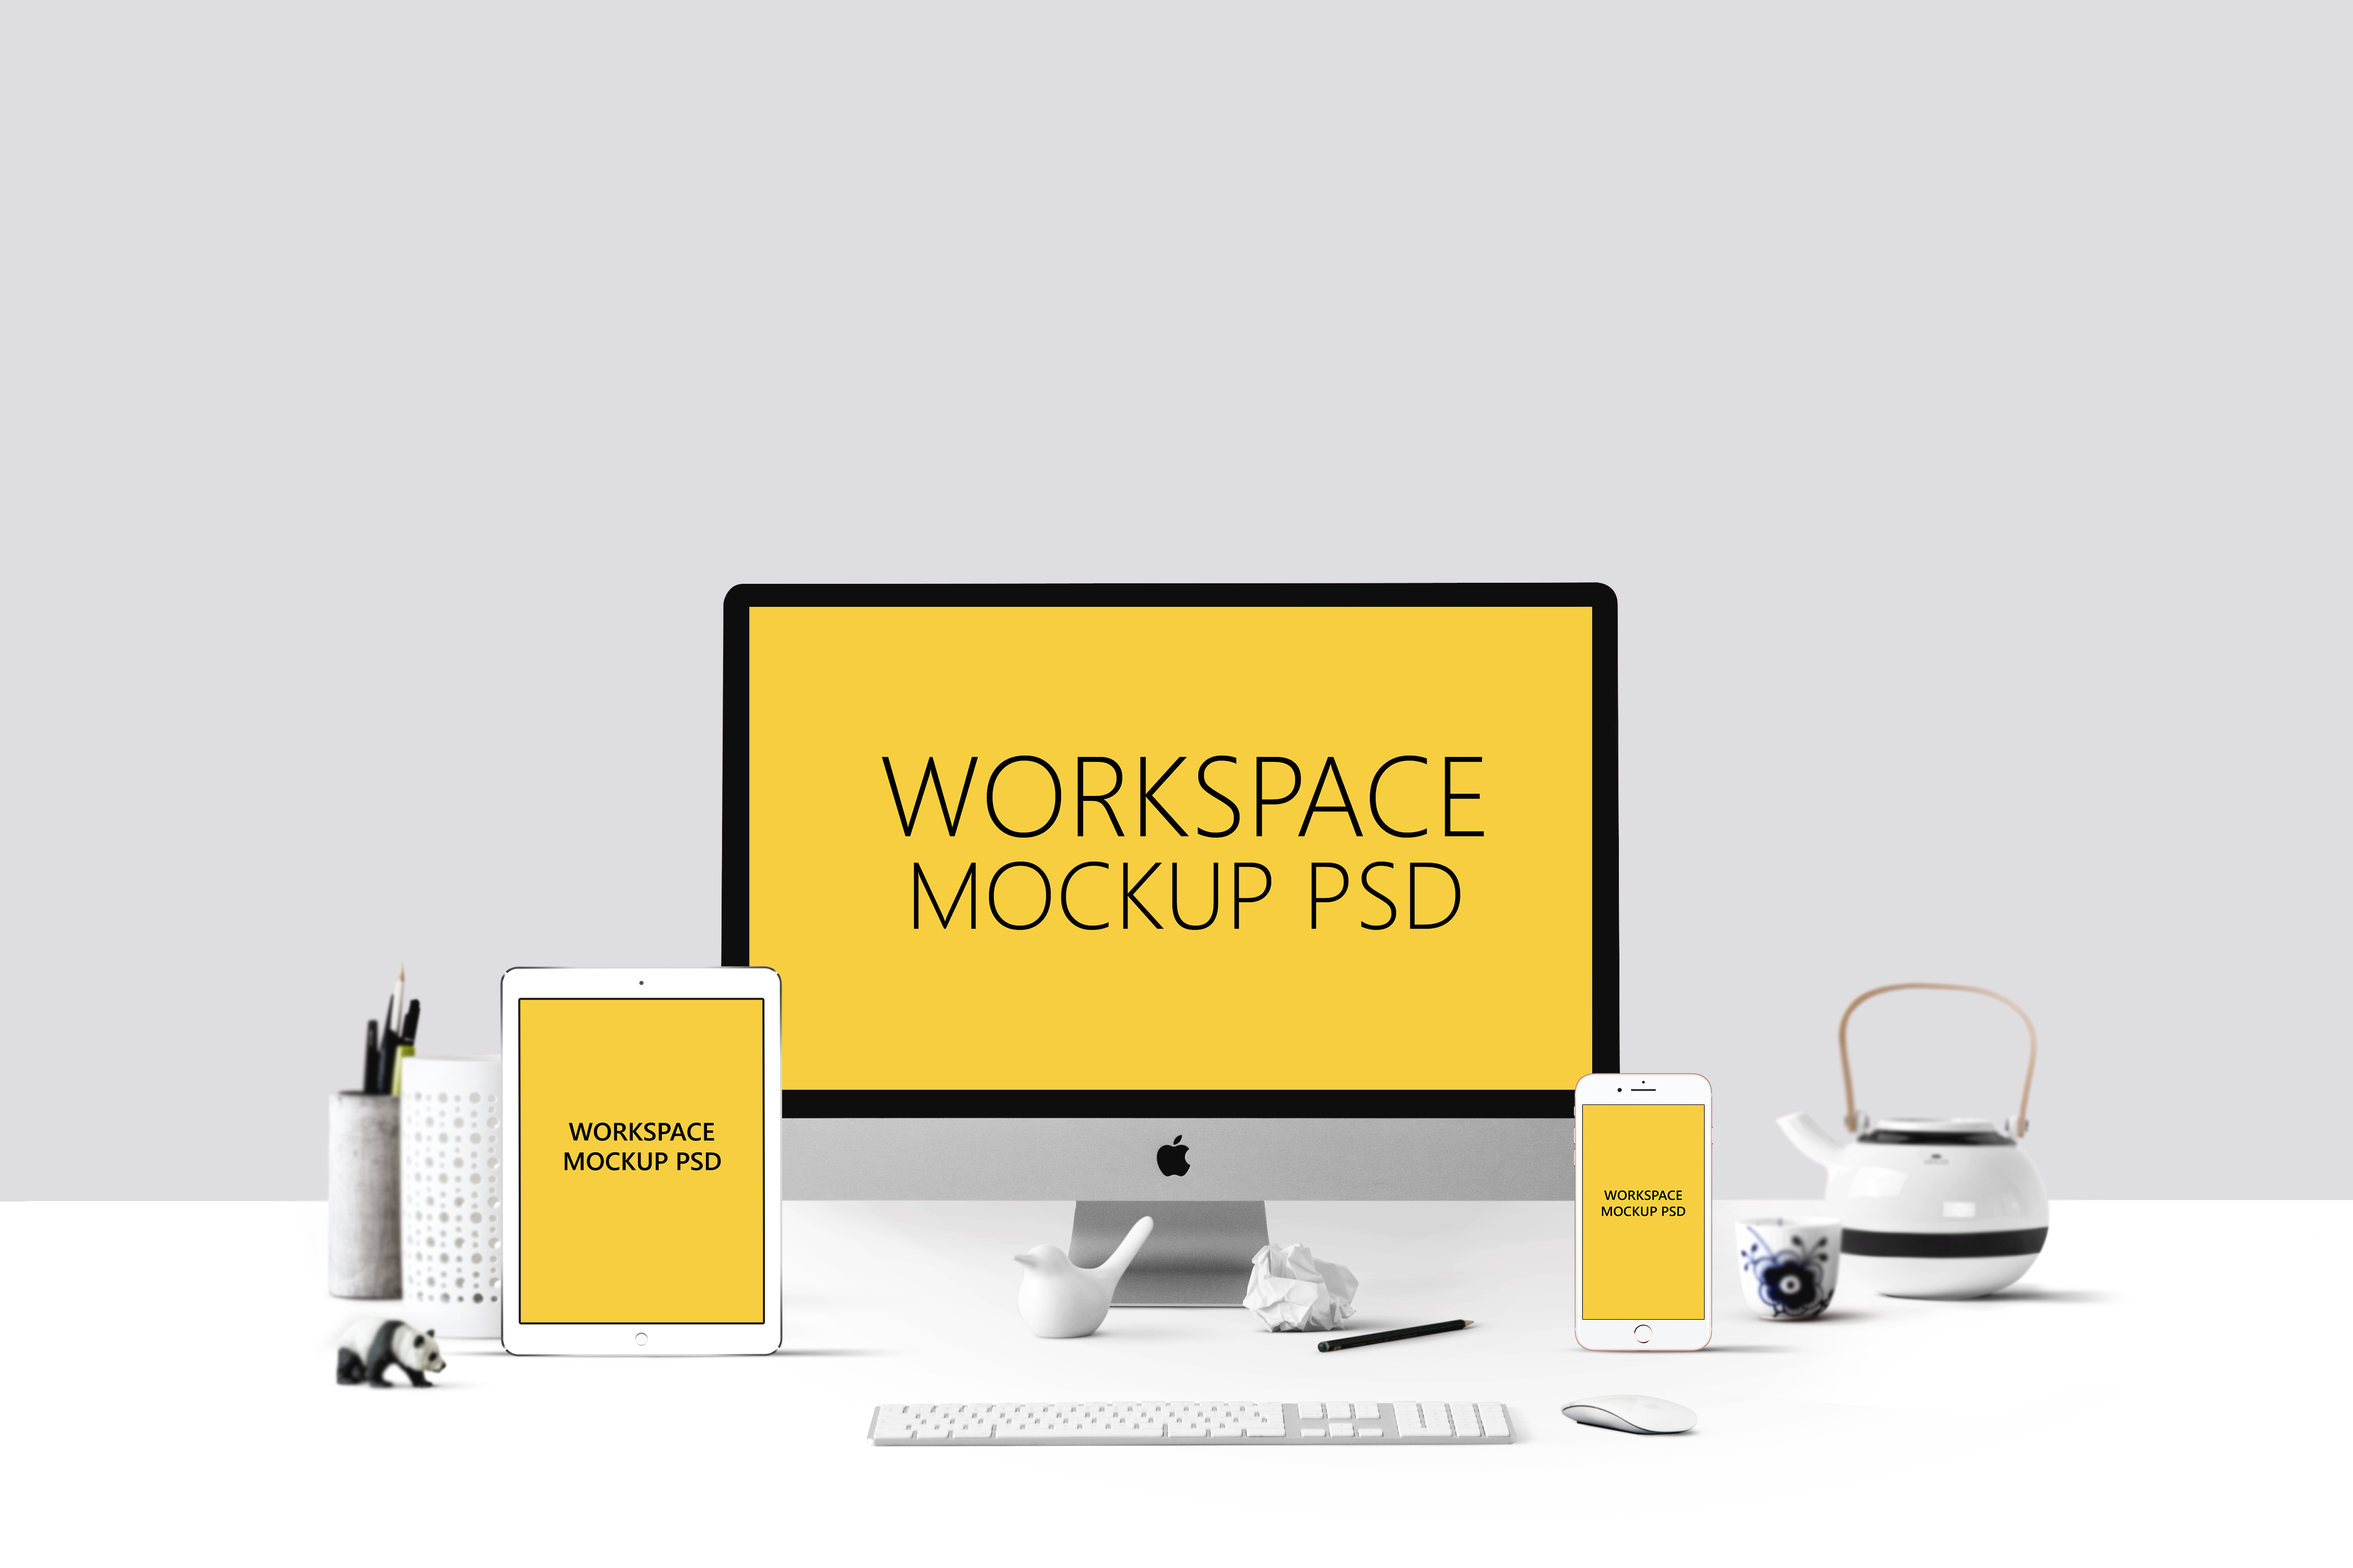
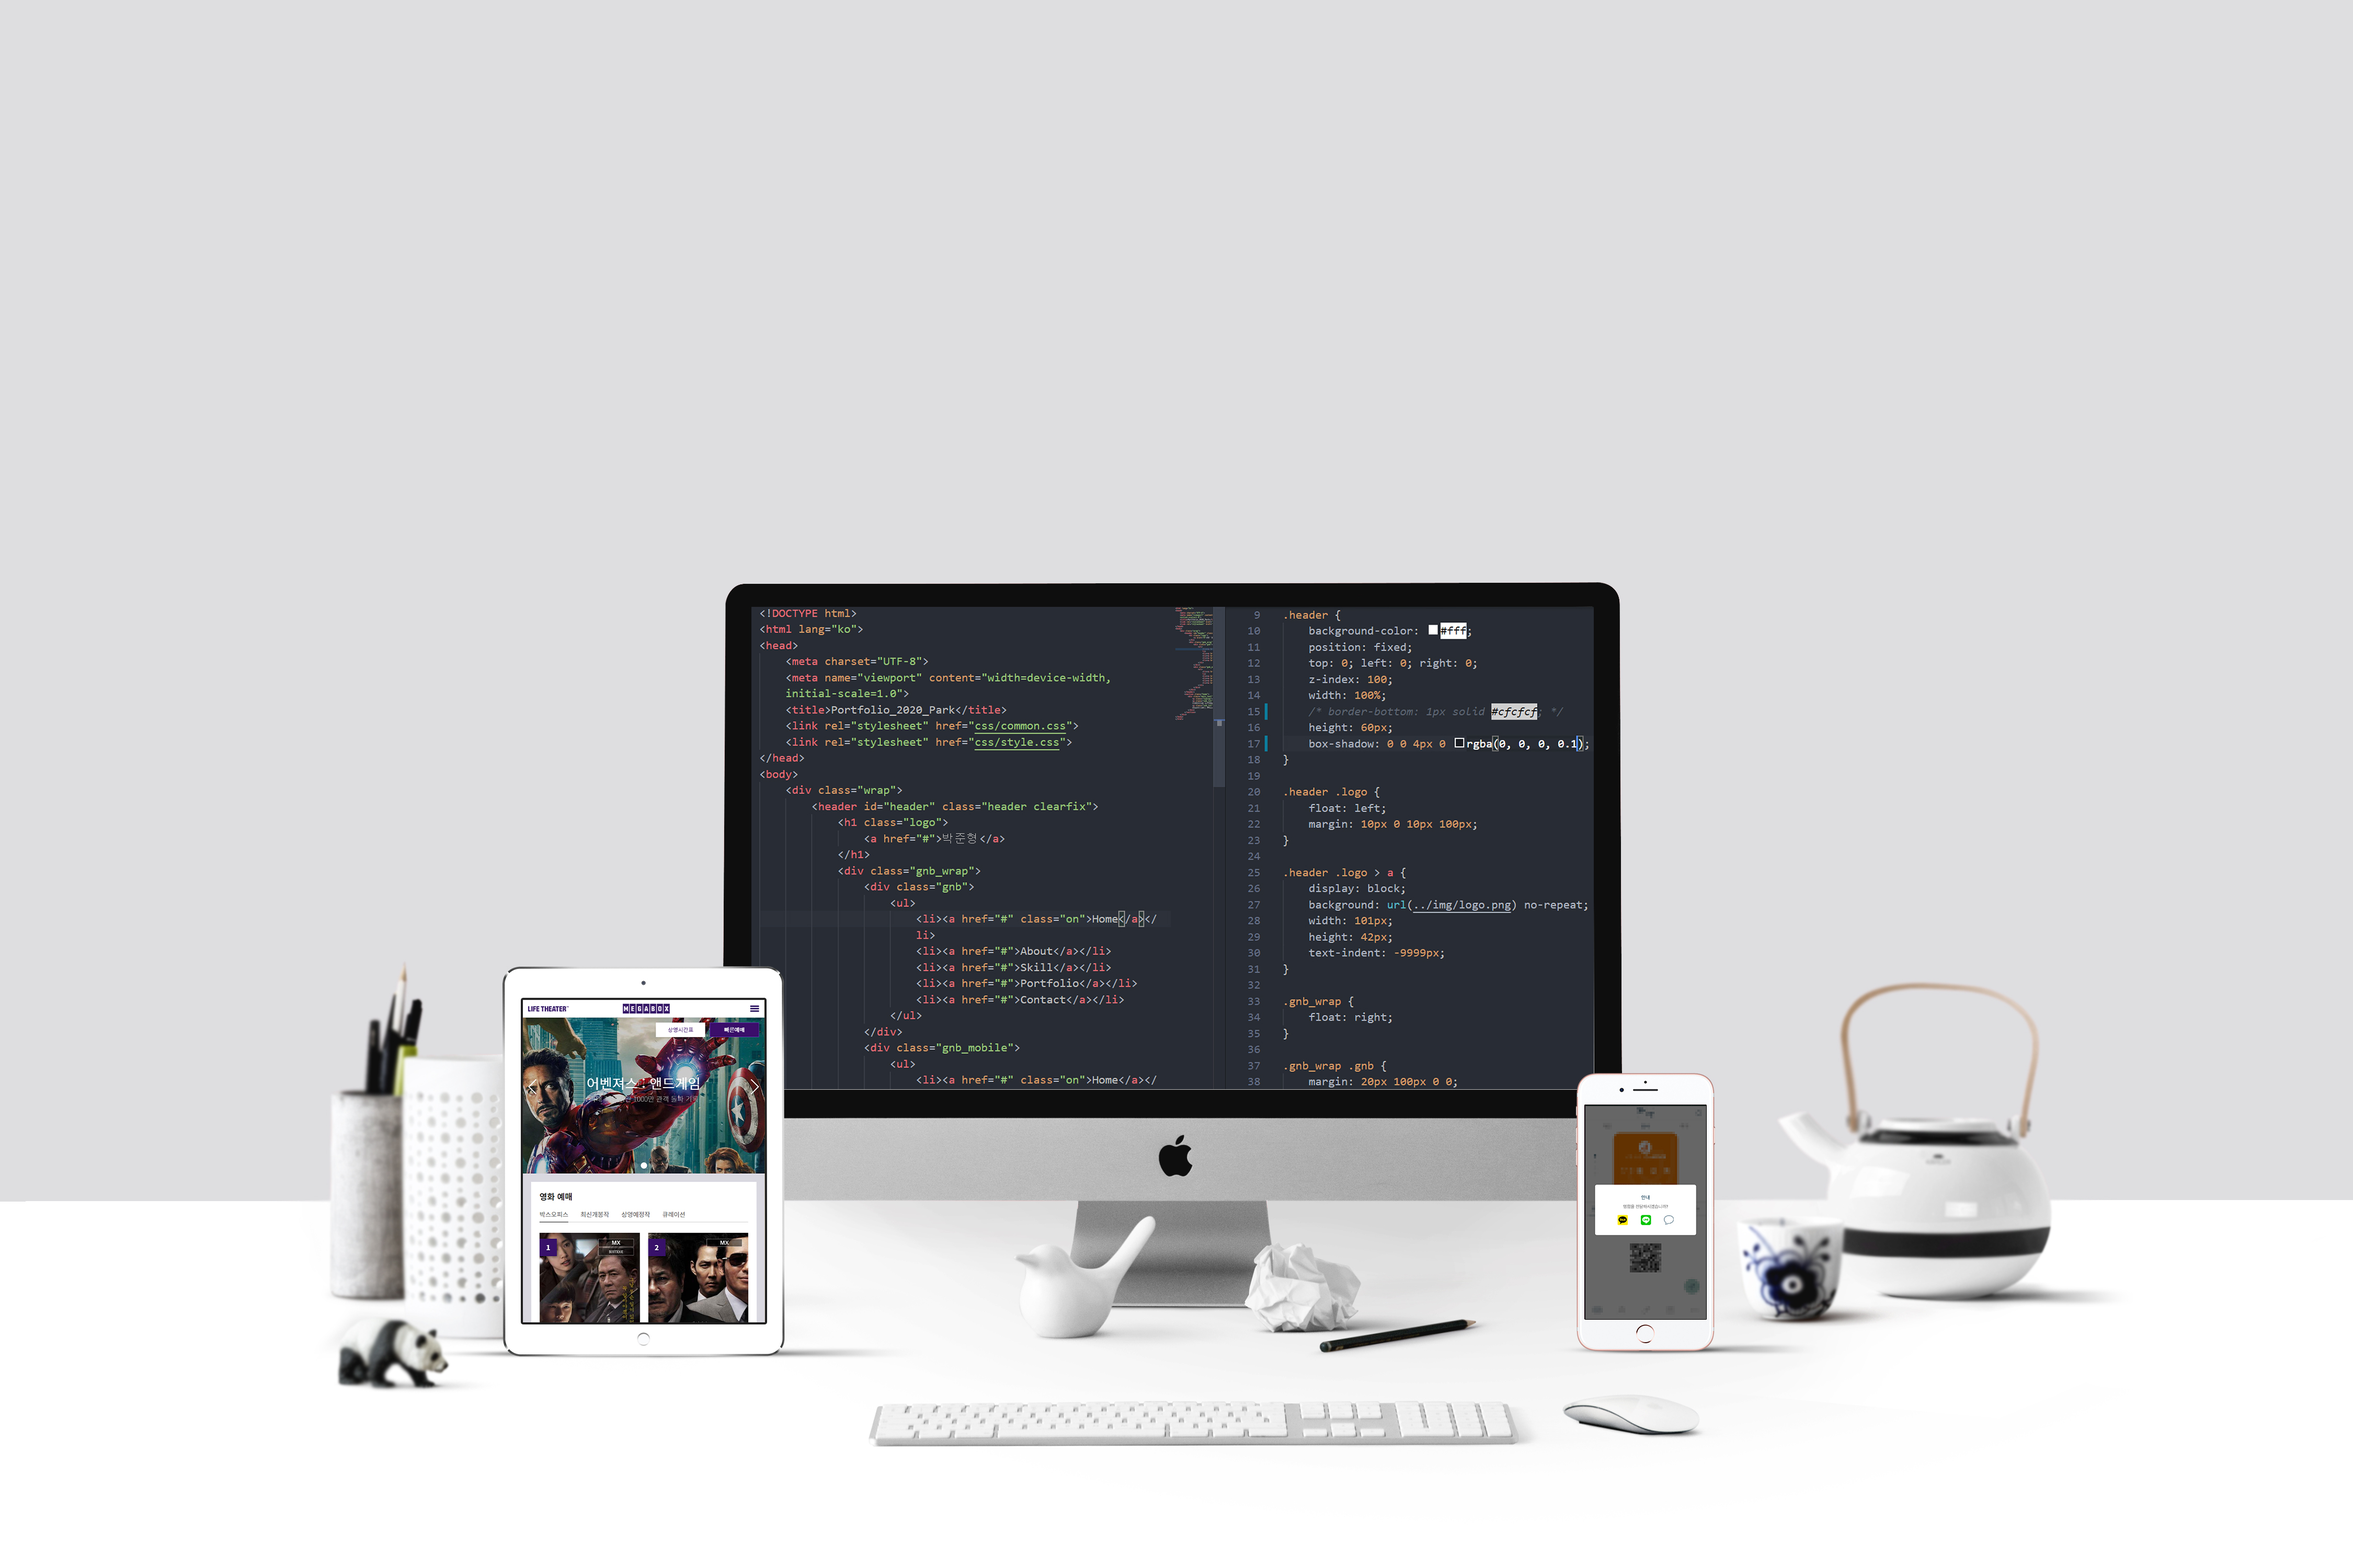
홈(메인페이지)

diff --git a/portfolio/css/style.css b/portfolio/css/style.css
@@ -12,9 +12,9 @@
     top: 0; left: 0; right: 0;
     z-index: 100;
     width: 100%;
-    border-bottom: 1px solid #cfcfcf;
+    /* border-bottom: 1px solid #cfcfcf; */
     height: 60px;
-    /* box-shadow: 0 0 4px 0 rgba(0, 0, 0, 0.4); */
+    box-shadow: 0 0 4px 0 rgba(0, 0, 0, 0.1);
 }
 
 .header .logo {
@@ -61,31 +61,56 @@
     display: none;   
 }
 
-.home {
+#home {
     position: relative;
     width: 100%;
     height: 100vh;
     background: url(../img/bg_home.jpg) no-repeat;
-    background-position: center 30px;
+    background-position: center center;
     background-size: cover;
     z-index: -1000;
 }
 
-.home .main_text {
+#home .main_text {
     padding-top: 60px;
     text-align: center;
 }
 
-.home .main_text .typing {
-    margin: 80px 0 10px;
+#home .main_text .typing_text {
+    margin: 60px 0 12px;
 }
 
-.home .main_text .typing {
-    font-size: 50px;
-    font-weight: 700;
+#home .main_text .typing_text {
+    font-size: 40px;
+    font-weight: 500;
 }
 
-.home .main_text .sub_txt {
-    font-size: 20px;
-    margin-bottom: 2px;
+.typing_text {
+    display: inline-block;
+    overflow: hidden; /* Ensures the content is not revealed until the animation */
+    border-right: .10em solid orange; /* The typwriter cursor */
+    white-space: nowrap; /* Keeps the content on a single line */
+    margin: 0 auto; /* Gives that scrolling effect as the typing happens */
+    letter-spacing: .10em; /* Adjust as needed */
+    animation: 
+      typing 3.5s steps(40, end),
+      blink-caret .75s step-end infinite;
+  }
+  
+  /* The typing effect */
+  @keyframes typing {
+    from { width: 0 }
+    to { width: 40% }
+  }
+  
+  /* The typewriter cursor effect */
+  @keyframes blink-caret {
+    from, to { border-color: transparent }
+    50% { border-color: orange; }
+  }
+
+#home .main_text .sub_txt {
+    font-size: 18px;
+    margin-bottom: 1px;
 }
+

diff --git a/portfolio/index.html b/portfolio/index.html
@@ -34,13 +34,20 @@
                 </div>
             </div>
         </header>
-        <section class="home">
+        <section id="home">
            <div class="main_text">
-               <p class="typing">Welcome to my Portfolio</p>
+               <div class="typing_text">Welcome to my Portfolio.</div>
                <p class="sub_txt">웹 퍼블리셔 박준형의 포트폴리오 사이트입니다.</p>
-               <p class="sub_txt">포트폴리오 사이트에 방문해주셔서 감사합니다.</p>
+               <p class="sub_txt">방문해주셔서 감사합니다.</p>
            </div>
         </section>
+        <section id="home">
+            <div class="main_text">
+                <div class="typing_text">Welcome to my Portfolio.</div>
+                <p class="sub_txt">웹 퍼블리셔 박준형의 포트폴리오 사이트입니다.</p>
+                <p class="sub_txt">방문해주셔서 감사합니다.</p>
+            </div>
+         </section>
     </div>
 </body>
 </html>
